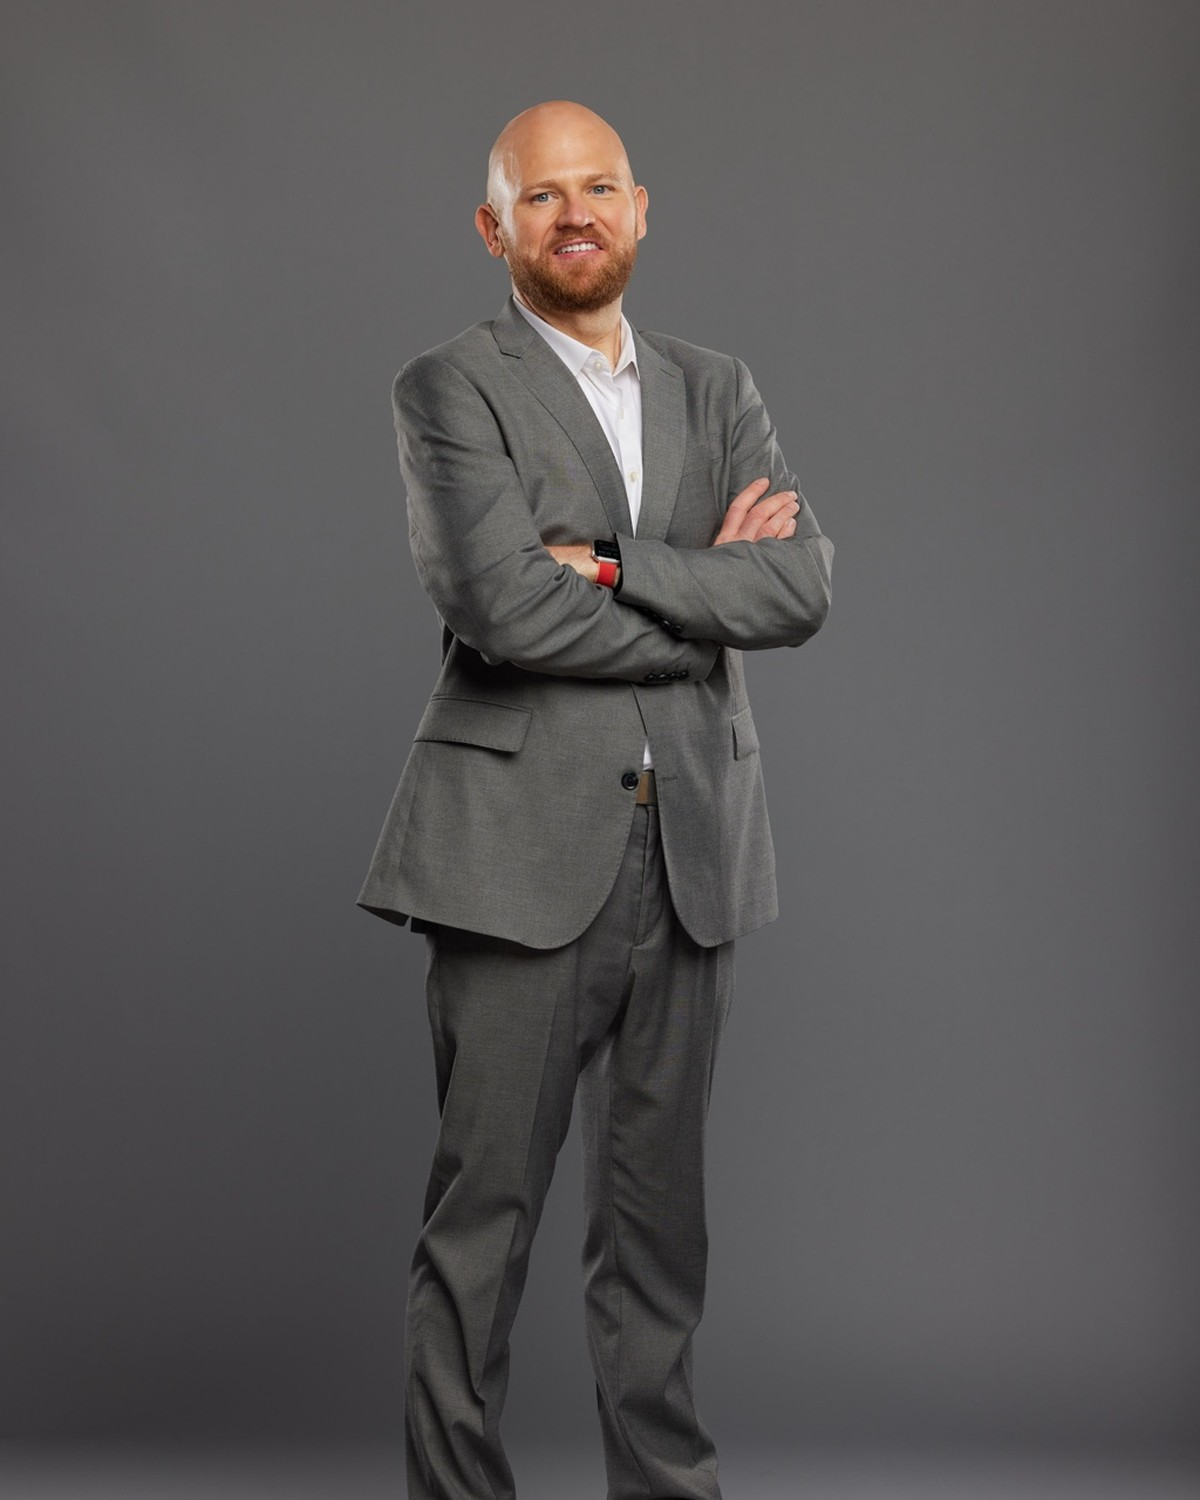
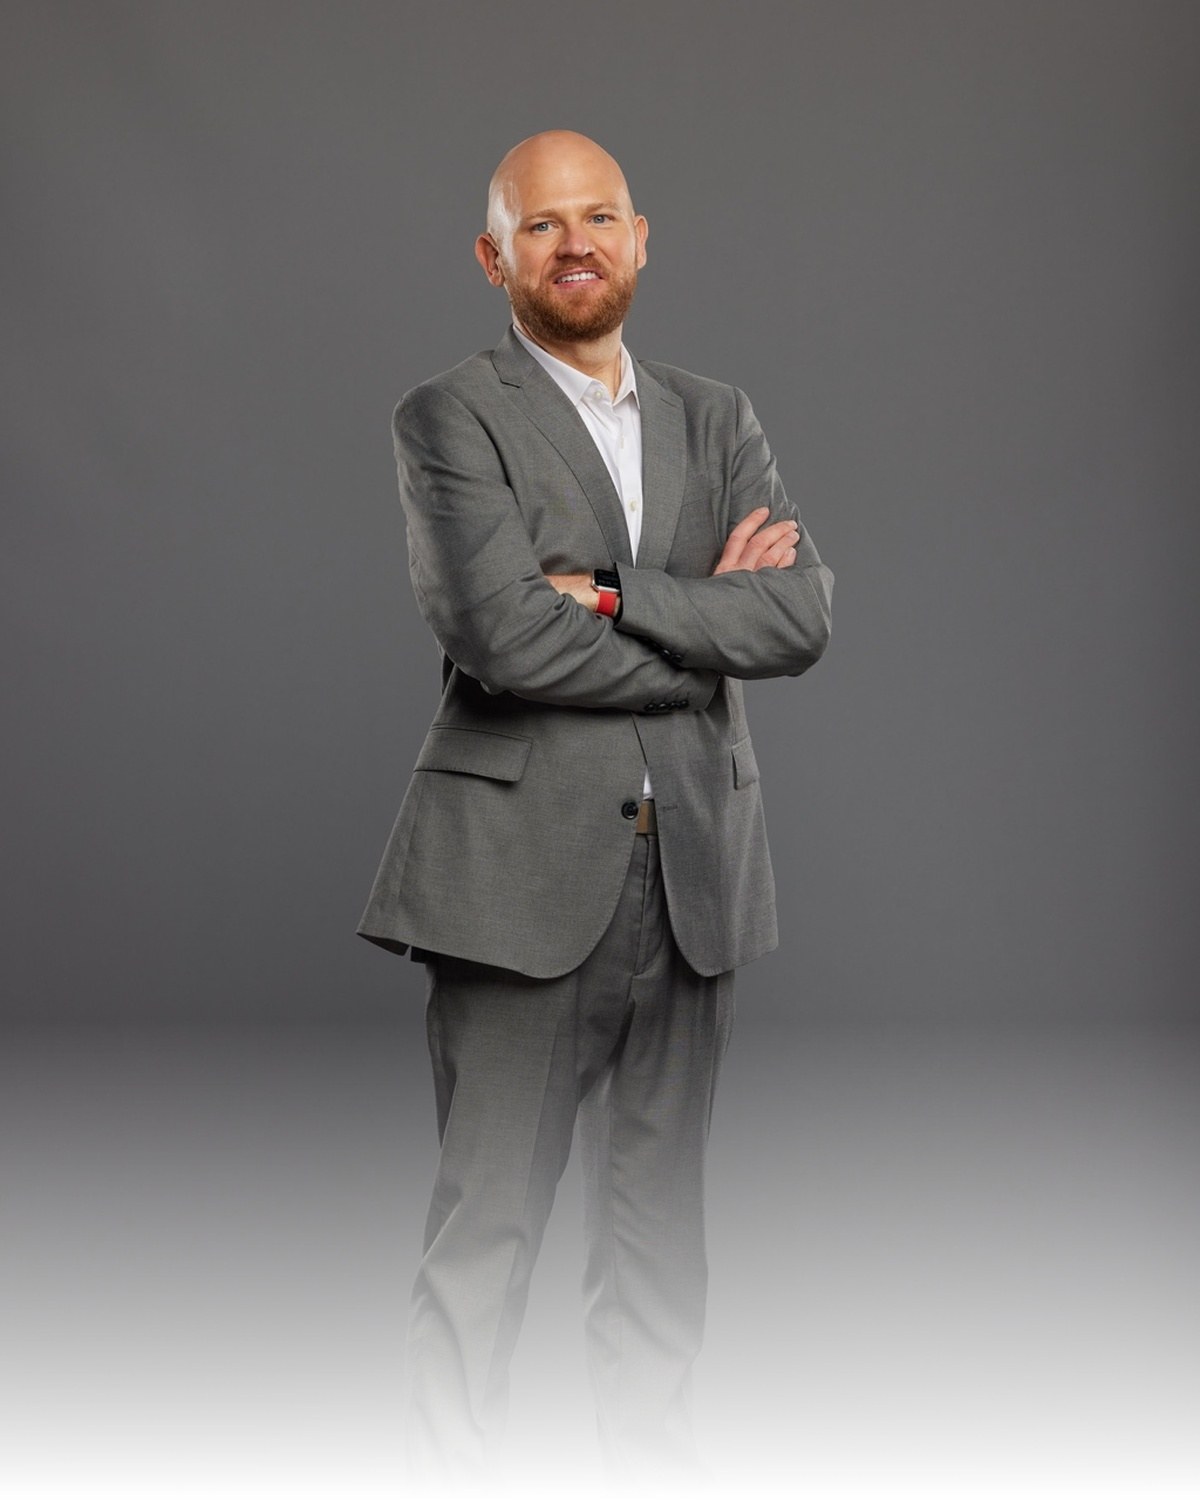
Add files via upload

diff --git a/css/styles.css b/css/styles.css
@@ -337,3 +337,36 @@ a:hover{ color:var(--accent); }
 
 /* Footer */
 .site-footer{border-top:1px solid var(--border); padding: 26px 0 40px; color:var(--muted); font-size:12px}
+
+
+/* Reseda-style hero overlap */
+.hero{ padding: 44px 0 26px; }
+.hero-media{
+  border-radius: var(--radius);
+  overflow: hidden;
+  box-shadow: var(--shadow);
+  position: relative;
+}
+.hero-media img{ width:100%; height:100%; object-fit: cover; display:block; }
+
+@media(min-width: 980px){
+  .hero-grid{ align-items: end; }
+  /* pull image up and slightly right for premium overlap feel */
+  .hero-media{
+    transform: translateY(-14px);
+  }
+  .hero-media::before{
+    content:"";
+    position:absolute; inset:-1px;
+    border-radius: var(--radius);
+    border: 1px solid rgba(11,18,32,.08);
+    pointer-events:none;
+  }
+}
+/* bottom blend (if not already present) */
+.hero-media::after{
+  content:"";
+  position:absolute; inset:0;
+  background: linear-gradient(to bottom, rgba(247,246,243,0) 62%, rgba(247,246,243,1) 100%);
+  pointer-events:none;
+}
